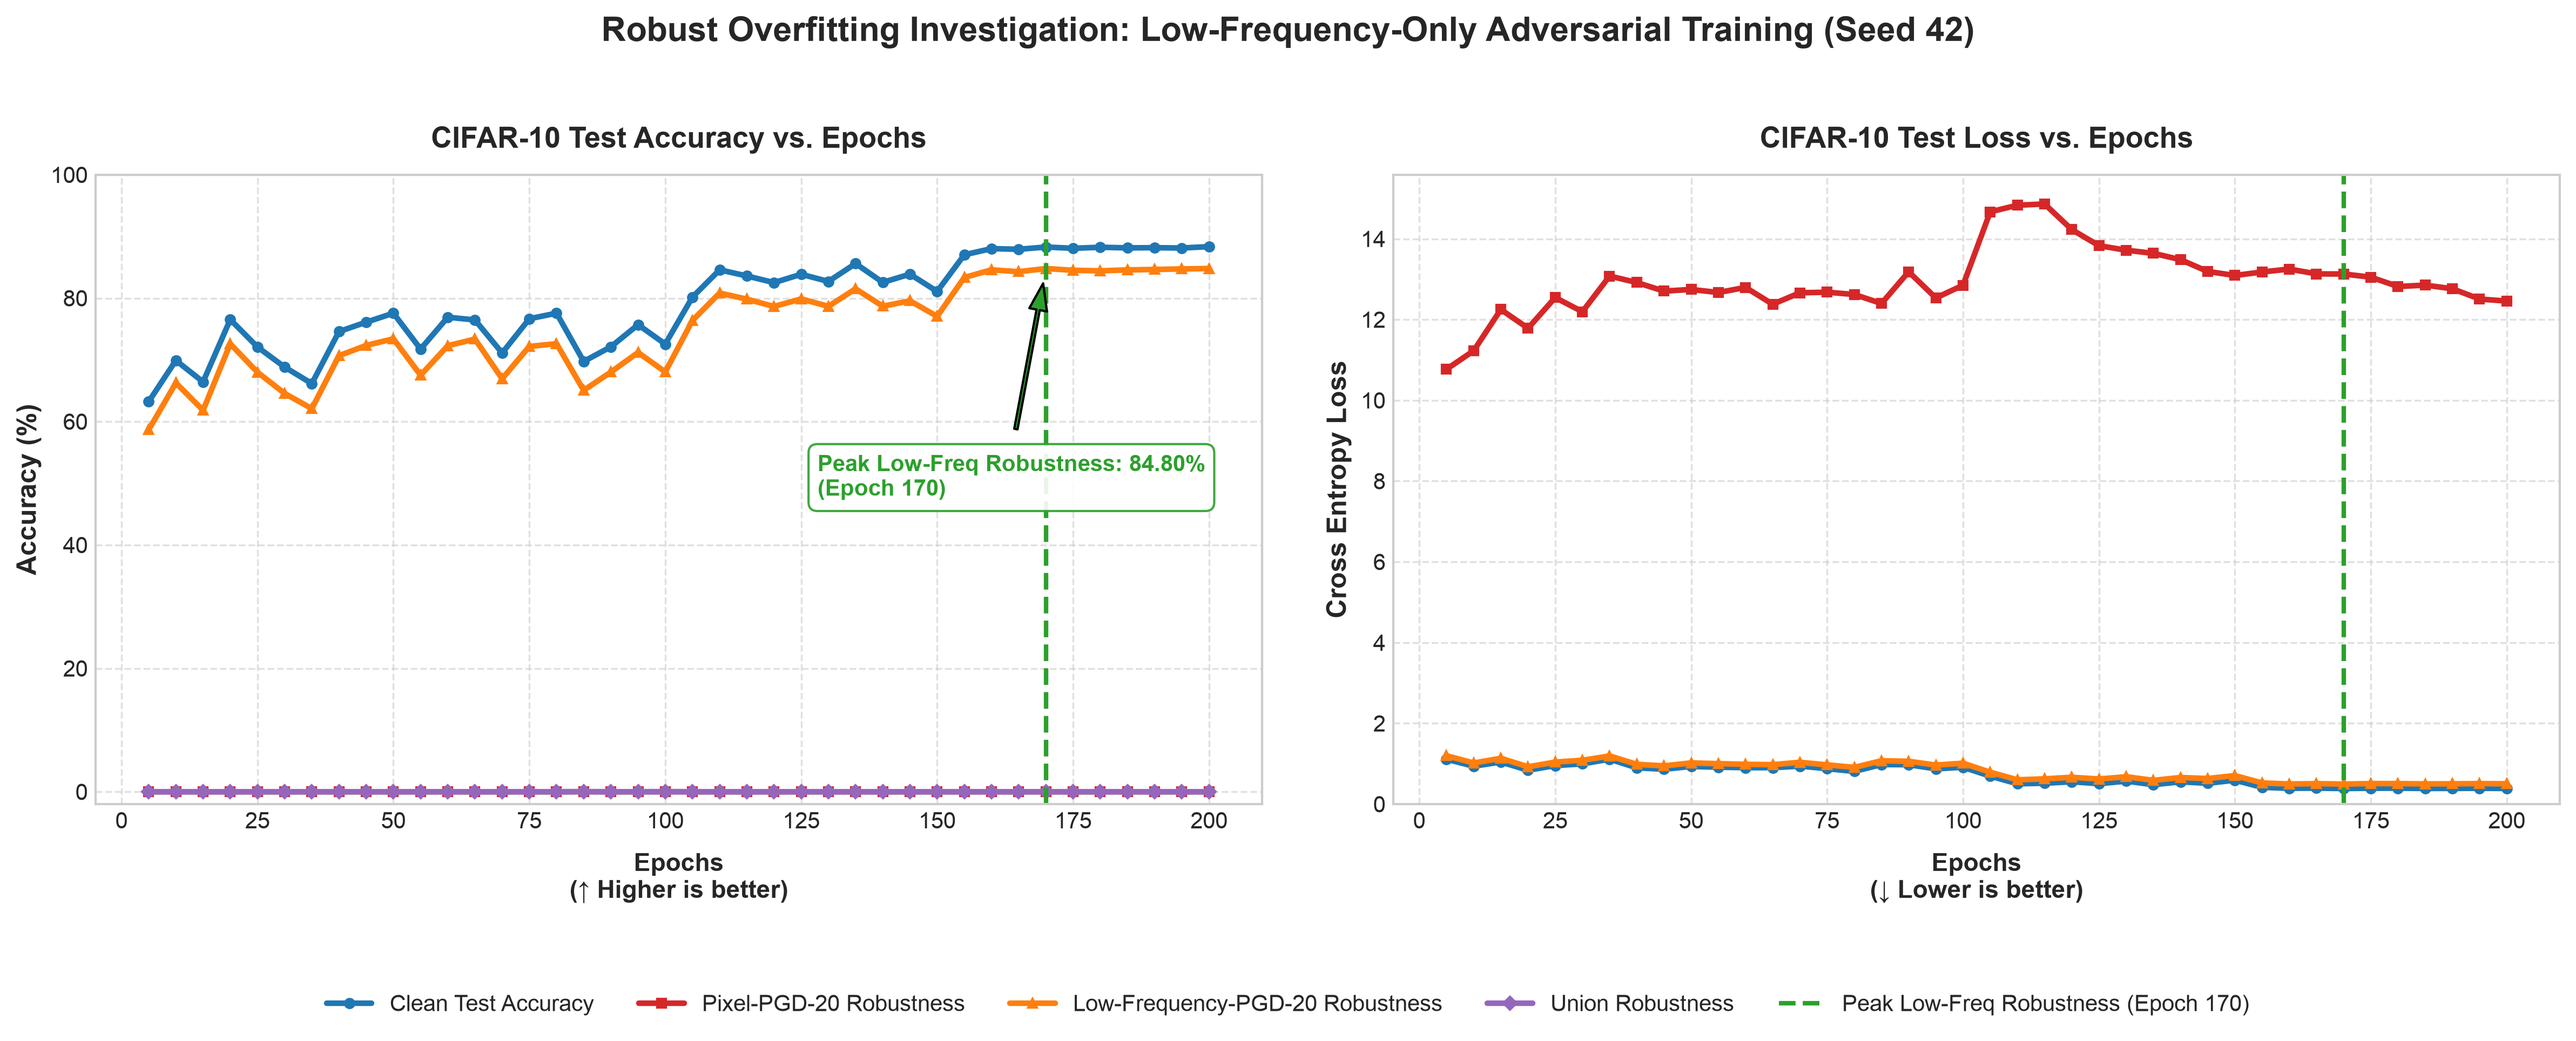
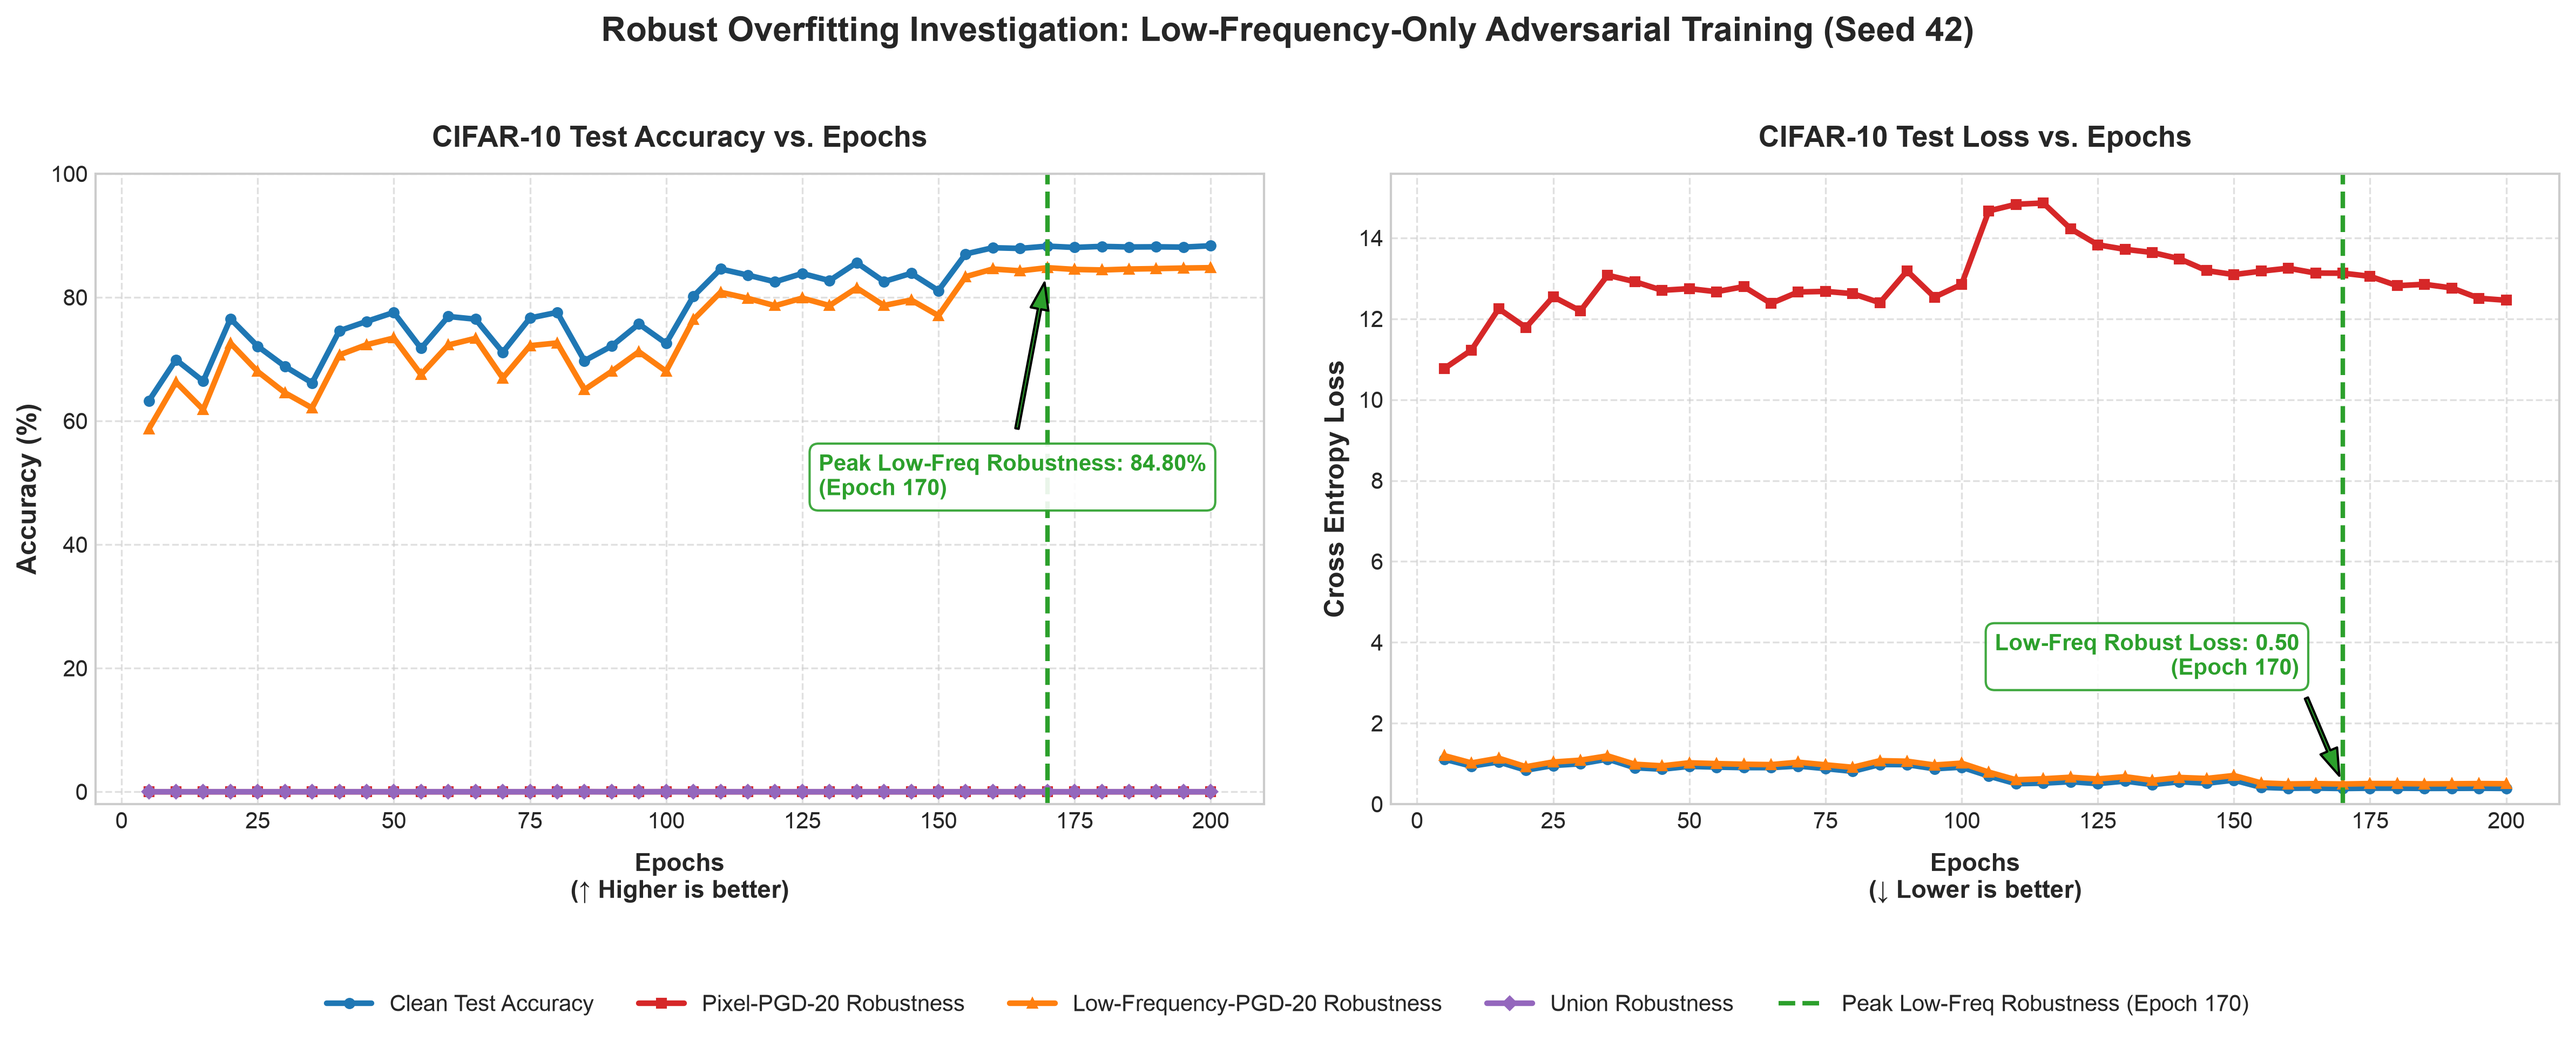
Commit: Add Loss Annotations & Update Evaluation Reports
1. Add robust loss value annotations and callout boxes to evaluation loss subplots in plot_results.py.
2. Update low-frequency and baseline Markdown reports with test loss statistics, insights, and chart links.
3. Regenerate evaluation curve figures across baseline and low-frequency runs.
4. Add temporary ignore patterns to .gitignore for working directories and scripts.

diff --git a/scripts/plot_results.py b/scripts/plot_results.py
@@ -15,6 +15,7 @@ import argparse
 import csv
 import glob
 import os
+import shutil
 import sys
 sys.path.insert(0, os.path.abspath(os.path.join(os.path.dirname(__file__), '..')))
 import matplotlib.pyplot as plt
@@ -97,13 +98,42 @@ def plot_accuracy_subplot(ax, data, best_epoch, peak_accuracy, peak_label, train
     ax.grid(True, linestyle='--', alpha=0.6)
 
 
-def plot_loss_subplot(ax, data, best_epoch, peak_label):
+def plot_loss_subplot(ax, data, best_epoch, peak_label, training_mode='pixel-only'):
     """Draws the loss-vs-epochs chart onto the given subplot axis."""
     ax.plot(data['epochs'], data['clean_losses'], label='Clean Test Loss', color='#1f77b4', linewidth=2.5, marker='o', markersize=4)
     ax.plot(data['epochs'], data['pixel_losses'], label='Pixel-PGD-20 Loss', color='#d62728', linewidth=2.5, marker='s', markersize=4)
     if data['low_frequency_losses']:
         ax.plot(data['epochs'], data['low_frequency_losses'], label='Low-Frequency-PGD-20 Loss', color='#ff7f0e', linewidth=2.5, marker='^', markersize=4)
     ax.axvline(x=best_epoch, color='#2ca02c', linestyle='--', linewidth=2)
+
+    max_idx = data['epochs'].index(best_epoch)
+    if training_mode == 'low-frequency-only':
+        loss_val = data['low_frequency_losses'][max_idx]
+        loss_label = 'Low-Freq Robust Loss'
+        xytext_loss = (best_epoch - 8, 3.2)
+        ha = 'right'
+    elif training_mode == 'mixed-domain':
+        loss_val = data['pixel_losses'][max_idx]
+        loss_label = 'Pixel Robust Loss'
+        if best_epoch > 130:
+            xytext_loss = (best_epoch - 38, loss_val + 2.2)
+            ha = 'left'
+        else:
+            xytext_loss = (best_epoch + 8, loss_val + 2.2)
+            ha = 'left'
+    else:  # pixel-only
+        loss_val = data['pixel_losses'][max_idx]
+        loss_label = 'Pixel Robust Loss'
+        xytext_loss = (best_epoch - 42, loss_val + 0.8)
+        ha = 'left'
+
+    ax.annotate(f'{loss_label}: {loss_val:.2f}\n(Epoch {best_epoch})',
+                 xy=(best_epoch, loss_val),
+                 xytext=xytext_loss,
+                 ha=ha,
+                 arrowprops=dict(facecolor='#2ca02c', shrink=0.08, width=1.5, headwidth=8),
+                 fontsize=10, fontweight='bold', color='#2ca02c',
+                 bbox=dict(boxstyle='round,pad=0.4', facecolor='white', edgecolor='#2ca02c', alpha=0.9))
 
     ax.set_xlabel('Epochs\n(↓ Lower is better)', fontsize=11, fontweight='bold', labelpad=8)
     ax.set_ylabel('Cross Entropy Loss', fontsize=12, fontweight='bold')
@@ -134,7 +164,7 @@ def plot_results(csv_path, output_path, training_mode='pixel-only', title_suffix
     fig, (ax1, ax2) = plt.subplots(1, 2, figsize=(16, 6), dpi=300)
 
     plot_accuracy_subplot(ax1, data, best_epoch, peak_accuracy, peak_label, training_mode=training_mode)
-    plot_loss_subplot(ax2, data, best_epoch, peak_label)
+    plot_loss_subplot(ax2, data, best_epoch, peak_label, training_mode=training_mode)
 
     mode_titles = {
         'pixel-only': 'Pixel-Only Adversarial Training',
@@ -428,6 +458,38 @@ def plot_aggregate_evaluation_results(report_mode_dir, output_png_path, training
         ax2.fill_between(epochs, agg['low_frequency_losses_mean'] - agg['low_frequency_losses_std'], agg['low_frequency_losses_mean'] + agg['low_frequency_losses_std'], color='#ff7f0e', alpha=0.18)
 
     ax2.axvline(x=best_epoch, color='#2ca02c', linestyle='--', linewidth=2)
+
+    if training_mode == 'low-frequency-only':
+        loss_val_mean = agg['low_frequency_losses_mean'][max_idx]
+        loss_val_std = agg['low_frequency_losses_std'][max_idx]
+        loss_label = 'Low-Freq Robust Loss'
+        xytext_loss = (best_epoch - 8, 3.2)
+        ha = 'right'
+    elif training_mode == 'mixed-domain':
+        loss_val_mean = agg['pixel_losses_mean'][max_idx]
+        loss_val_std = agg['pixel_losses_std'][max_idx]
+        loss_label = 'Pixel Robust Loss'
+        if best_epoch > 130:
+            xytext_loss = (best_epoch - 38, loss_val_mean + 2.2)
+            ha = 'left'
+        else:
+            xytext_loss = (best_epoch + 8, loss_val_mean + 2.2)
+            ha = 'left'
+    else:  # pixel-only
+        loss_val_mean = agg['pixel_losses_mean'][max_idx]
+        loss_val_std = agg['pixel_losses_std'][max_idx]
+        loss_label = 'Pixel Robust Loss'
+        xytext_loss = (best_epoch - 42, loss_val_mean + 0.8)
+        ha = 'left'
+
+    ax2.annotate(f'{loss_label}:\n{loss_val_mean:.2f} ± {loss_val_std:.2f}\n(Epoch {best_epoch})',
+                 xy=(best_epoch, loss_val_mean),
+                 xytext=xytext_loss,
+                 ha=ha,
+                 arrowprops=dict(facecolor='#2ca02c', shrink=0.08, width=1.5, headwidth=8),
+                 fontsize=10, fontweight='bold', color='#2ca02c',
+                 bbox=dict(boxstyle='round,pad=0.4', facecolor='white', edgecolor='#2ca02c', alpha=0.9))
+
     ax2.set_xlabel('Epochs\n(↓ Lower is better)', fontsize=11, fontweight='bold', labelpad=8)
     ax2.set_ylabel('Cross Entropy Loss', fontsize=12, fontweight='bold')
     ax2.set_title(f'CIFAR-10 Test Loss vs. Epochs ({agg["num_seeds"]} Seeds Mean ± SD)', fontsize=13, fontweight='bold', pad=12)
@@ -585,6 +647,9 @@ def process_mode_plots(training_mode, seed=None, run_name=None, diagnostic=False
             agg_eval_png = os.path.join(agg_report_dir, f'{mode_prefix}_eval_results_curves.png')
             agg_eval_csv = os.path.join(agg_report_dir, 'evaluation_results.csv')
             plot_aggregate_evaluation_results(report_mode_dir, agg_eval_png, training_mode=training_mode, output_csv_path=agg_eval_csv)
+            legacy_agg_png = os.path.join(agg_report_dir, 'robust_overfitting_curves.png')
+            if os.path.exists(legacy_agg_png):
+                shutil.copyfile(agg_eval_png, legacy_agg_png)
         if plot_type in ('both', 'train'):
             agg_train_png = os.path.join(agg_report_dir, f'{mode_prefix}_train_results_curves.png')
             plot_aggregate_training_results(runs_mode_dir, agg_train_png, training_mode=training_mode)
@@ -622,6 +687,9 @@ def process_mode_plots(training_mode, seed=None, run_name=None, diagnostic=False
         seed_label = r_name.replace('seed-', 'Seed ') if r_name.startswith('seed-') else r_name
         if plot_type in ('both', 'eval') and os.path.exists(cur_csv):
             plot_results(cur_csv, cur_eval_png, training_mode=training_mode, title_suffix=seed_label)
+            legacy_cur_png = os.path.join(os.path.dirname(cur_eval_png), 'robust_overfitting_curves.png')
+            if os.path.exists(legacy_cur_png):
+                shutil.copyfile(cur_eval_png, legacy_cur_png)
         if plot_type in ('both', 'train') and os.path.exists(cur_runs_dir):
             try:
                 plot_training_results(cur_runs_dir, cur_train_png, training_mode=training_mode, title_suffix=seed_label)

diff --git a/report/low-frequency-only/overall/lfo_overall.md b/report/low-frequency-only/overall/lfo_overall.md
@@ -6,6 +6,7 @@
 - At epoch 200, mean clean accuracy is **88.11% ± 0.33 pp** and mean low-frequency-PGD-20 robust accuracy is **84.50% ± 0.56 pp**.
 - The epoch-200 means are also highest overall clean and low-frequency robust accuracies observed.
 - Pixel-PGD-20 and union robust accuracy finish at **0.00%**; their overall maximum is only **0.01%** at epoch 100.
+- At epoch 200, mean clean test loss finishes at **0.37 ± 0.01** and mean low-frequency robust test loss reaches its minimum of **0.51 ± 0.01**, while pixel-PGD-20 test loss finishes at **12.39 ± 0.36**.
 
 ## Lines
 
@@ -13,9 +14,17 @@
 - Mean low-frequency robust accuracy rises from **61.80%** to **84.50%**, including **68.51%** at epoch 100 and **79.57%** at epoch 150.
 - The low-frequency robustness curve remains high late in training and reaches its overall maximum at final checkpoint rather than falling off.
 - The pixel-PGD-20 and union-robustness curves stay essentially on zero line throughout training.
+- Mean clean test loss and low-frequency robust test loss drop steadily throughout training (clean loss: 1.07 → 0.37; low-frequency loss: 1.13 → 0.51) without late-stage loss explosion or divergence.
 
 ## What this indicates
 
 - Low-frequency-only adversarial training provides strong, consistent protection against low-frequency attack used for training and evaluation.
 - That protection does not transfer to unrestricted pixel-space PGD; because pixel robustness is near zero, robustness to both attacks simultaneously is also near zero.
 - The overall curve does not show robust overfitting under low-frequency threat model by epoch 200: mean low-frequency robustness is highest at final checkpoint.
+- The absence of test loss divergence corroborates the accuracy findings: low-frequency-only adversarial training does not exhibit robust overfitting under the low-frequency threat model through epoch 200.
+
+## Visualizations
+
+- Evaluation Curves: [`lfo_eval_results_curves.png`](lfo_eval_results_curves.png)
+- Training Dynamics: [`lfo_train_results_curves.png`](lfo_train_results_curves.png)
+

diff --git a/report/pixel-only/baseline/po_baseline.md b/report/pixel-only/baseline/po_baseline.md
@@ -6,14 +6,23 @@
 - At epoch 200, clean accuracy is **82.22%** and pixel-PGD-20 robust accuracy is **36.18%**.
 - Clean accuracy peaks at 82.98% at epoch 170, while pixel-PGD-20 robust accuracy peaks earlier at **45.91%** at epoch 105.
 - Pixel robustness declines **9.73 pp** from its epoch-105 peak to final checkpoint.
+- Pixel-PGD-20 test loss reaches its minimum of **1.48** at epoch 105 (matching peak robust accuracy), then surges to **3.75** by epoch 200 (+2.27 increase, +153%), while clean test loss remains low at **0.62** (down from 0.80 at epoch 100).
 
 ## Lines
 
 - Clean accuracy rises from 58.04% at epoch 5 to its peak at epoch 170, then ends slightly lower at 82.22%.
 - Pixel-PGD-20 robust accuracy rises from 34.24% to 45.91% at epoch 105, falls to 39.14% at epoch 150, and ends at 36.18%.
+- Robust test loss drops to 1.48 at epoch 105 before rising monotonically to 3.75 at epoch 200, displaying the classic U-shaped robust overfitting trajectory while clean loss continues downward.
 - This older baseline CSV records clean and pixel-PGD-20 results only; it does not contain low-frequency or union metrics.
 
 ## What this indicates
 
 - The run reproduces robust-overfitting pattern reported by Rice et al.: pixel-PGD test robustness drops substantially after its early peak while clean accuracy continues improving to a later epoch.
+- The robust test loss explosion confirms that robust overfitting is not just an accuracy metric artifact, but reflects growing cross-entropy error on adversarial examples late in training.
 - The result serves as an independent reference point for later five-seed pixel-only control, rather than an additional seed in that overall summary.
+
+## Visualizations
+
+- Evaluation Curves: [`po_eval_results_curves.png`](po_eval_results_curves.png)
+- Training Dynamics: [`po_train_results_curves.png`](po_train_results_curves.png)
+
